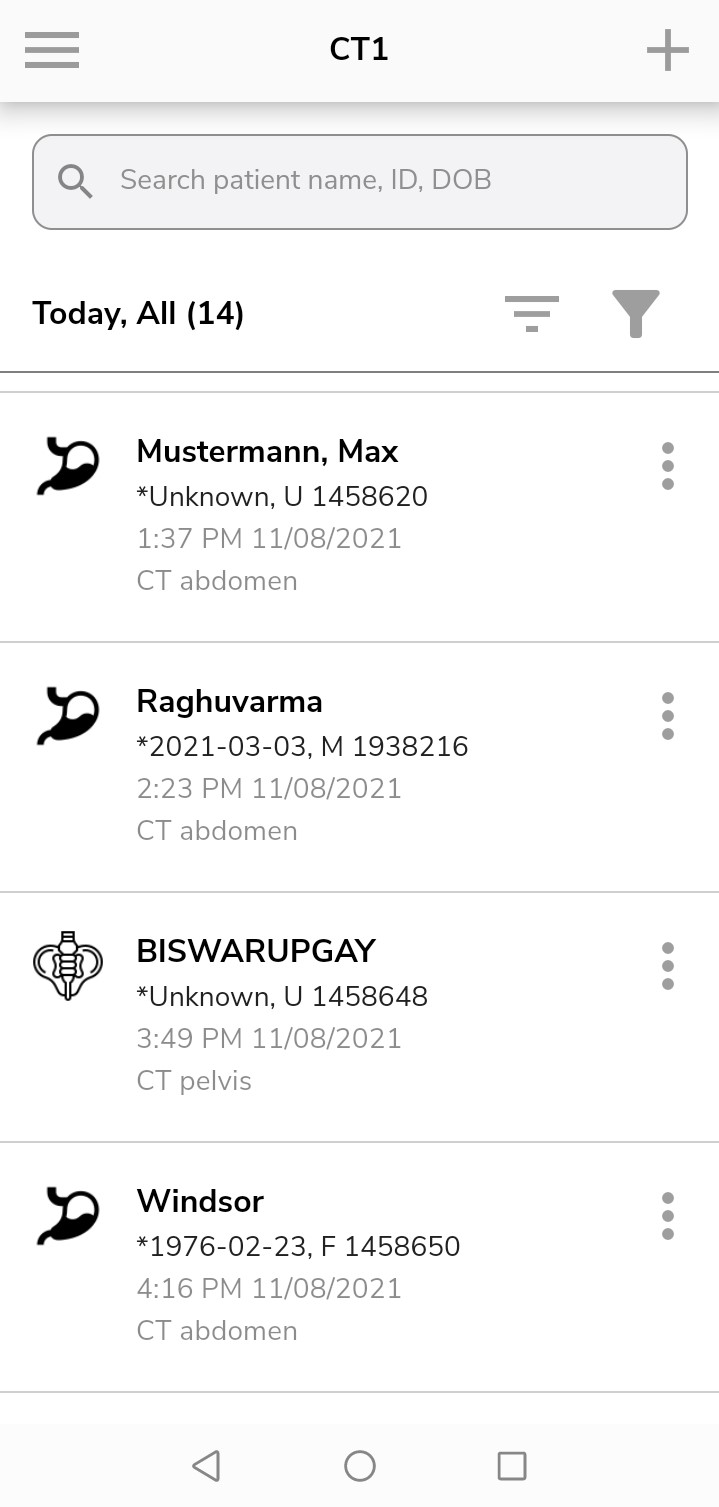
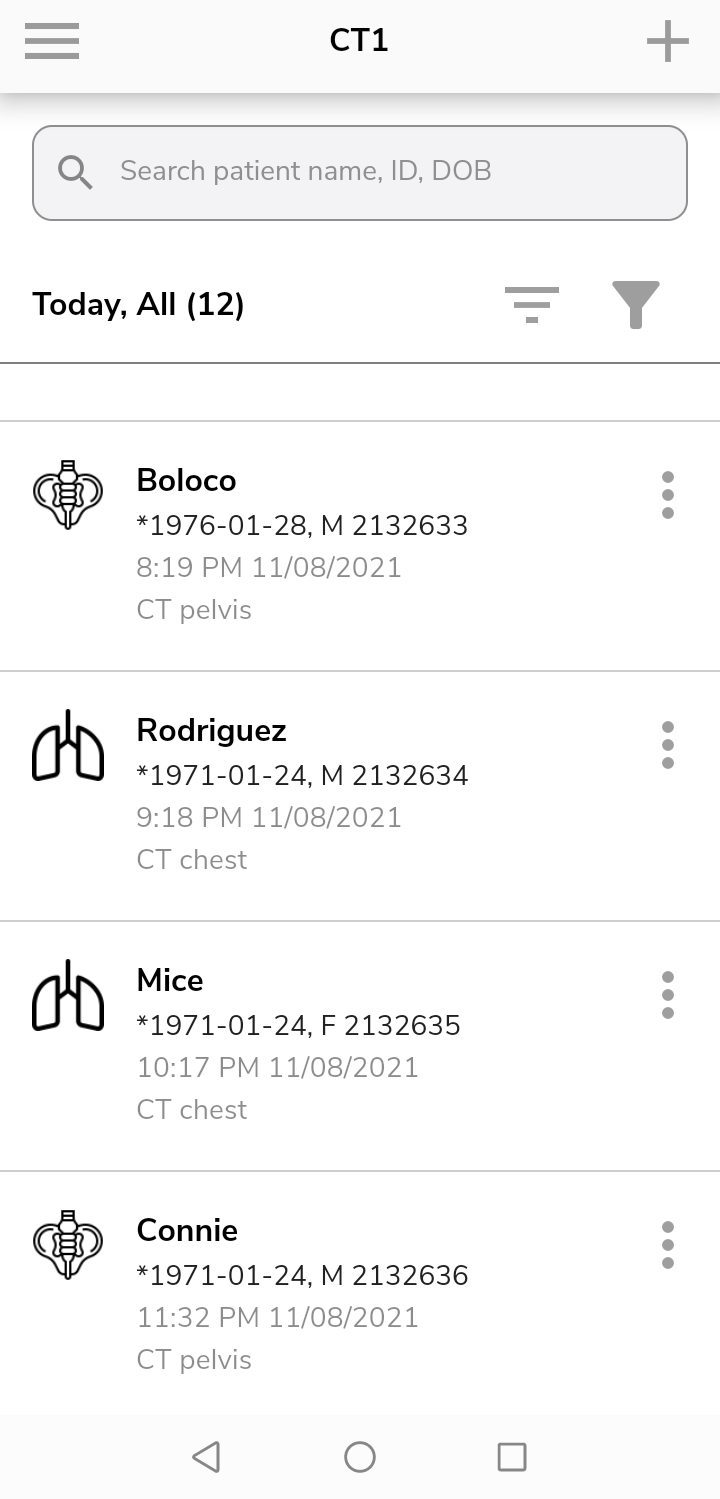
README.md and images changes
README.md - removed typos
list.jpg - changed for better example

diff --git a/README.md b/README.md
@@ -2,7 +2,7 @@
 
 Simple app, which takes data from http://hapi.fhir.org/ API and parse them into list. The app uses the [patients GET endpoint](http://hapi.fhir.org/baseR4/Patient?_format=json), to obtain the patient data. 
 
-For state management the app uses the [flutter_bloc](https://bloclibrary.dev/#/) plugin. The UI is created based on the states invocated by events. Everything can be found in bloc_module. The parsing of the Json data is being done by autogenerated code from [json_serializable](https://pub.dev/packages/json_serializable) and [build_runner](https://pub.dev/packages/build_runner). Patient object is created by parsed data (id, name, birthDate, deceasedDateTime,  gender and full url to the patient at the API). The data are used to fill the list view with examinations for CT. The date and type of examination are generated randomly for each patient. Only the patients for today's day are visible. The search bar also works and patients can be found by id or name. If there is no internet, the list is empty or error occurred, the error page with appropriate message is shown and button to retry. 
+For state management the app uses the [flutter_bloc](https://bloclibrary.dev/#/) plugin. The UI is created based on the states evoked by events. Everything can be found in bloc_module. The parsing of the Json data is being done by autogenerated code from [json_serializable](https://pub.dev/packages/json_serializable) and [build_runner](https://pub.dev/packages/build_runner). Patient object is created by parsed data (id, name, birthDate, deceasedDateTime,  gender and full url to the patient at the API). The data are used to fill the list view with examinations for CT. The date and type of examination are generated randomly for each patient. Only the patients for today's day are visible. The search bar also works and patients can be found by id or name. If there is no internet, the list is empty or error occurred, the error page with appropriate message is shown and button to retry.
 
 ## **Structure of the app:**
 
@@ -17,7 +17,7 @@ For state management the app uses the [flutter_bloc](https://bloclibrary.dev/#/)
     - json_patient.g.dart - generated code for json parsing
   - **types**
     - examination.dart - object, with which the list view is filled
-    - patient.dart - holds all the patien's data
+    - patient.dart - holds all the patient's data
   - api_client.dart - makes all the api calls and holds the data
   - filtration.dart - functions, which filter the patients by conditions
 - **res**
@@ -47,7 +47,7 @@ For state management the app uses the [flutter_bloc](https://bloclibrary.dev/#/)
 * [connectivity plus](https://pub.dev/packages/connectivity_plus) - for internet connection status 
 * [flutter_bloc](https://pub.dev/packages/flutter_bloc) - for state management of the app
 * [flutter_lints](https://pub.dev/packages/flutter_lints) - opinionated code conventions
-* [google_fonts](https://pub.dev/packages/google_fonts) - fonts themening
+* [google_fonts](https://pub.dev/packages/google_fonts) - fonts theming
 * [http](https://pub.dev/packages/http) - HTTP requests for the fhir API
 * [intl](https://pub.dev/packages/intl) - for time formatting
 * [json_serializable](https://pub.dev/packages/json_serializable) - json parsing
